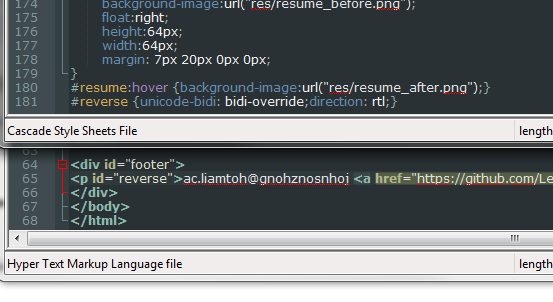
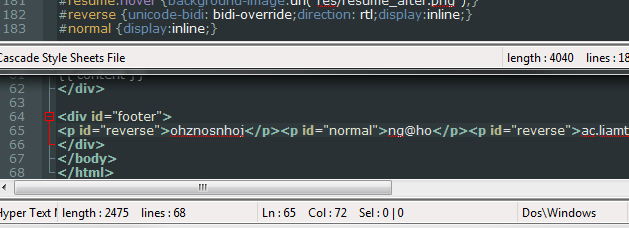
Segmented email reversing to complicate it

diff --git a/main.css b/main.css
@@ -78,7 +78,7 @@ code {
 }
 #footer a{
         position:absolute;
-        left:30px;
+        right:30px;
         margin:0px 20px 0px 0px;
         color:#f0f0f0;
 }
@@ -179,4 +179,5 @@ code {
 		margin: 7px 20px 0px 0px;
 }
 #resume:hover {background-image:url("res/resume_after.png");}
-#reverse {unicode-bidi: bidi-override;direction: rtl;}
+#reverse {unicode-bidi: bidi-override;direction: rtl;display:inline;}
+#normal {display:inline;}

diff --git a/_layouts/default.html b/_layouts/default.html
@@ -62,7 +62,7 @@
 </div>
 
 <div id="footer">
-<p id="reverse">ac.liamtoh@gnohznosnhoj <a href="https://github.com/LemonPi/portfolio/commits/gh-pages/{{page.path}}">page history</a></p>
+<p id="reverse"><br>ohznosnhoj</p><p id="normal">ng@ho</p><p id="reverse">ac.liamt<a href="https://github.com/LemonPi/portfolio/commits/gh-pages/{{page.path}}">page history</a></p><p></p>
 </div>
 </body>
 </html>
